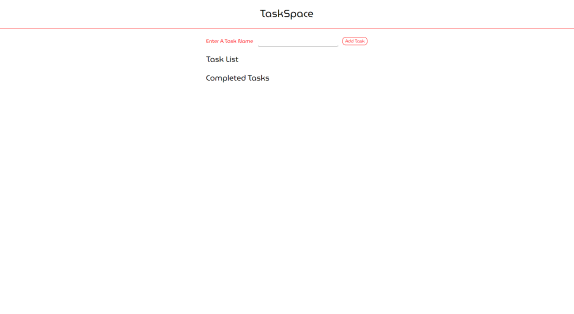
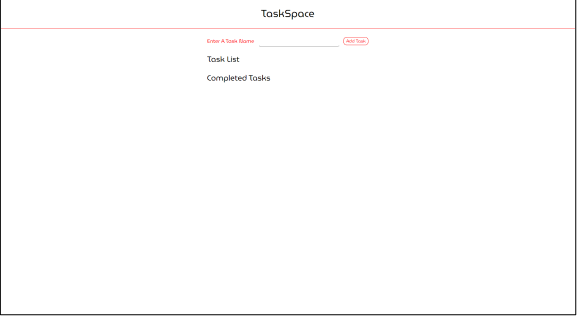
adds borders to images

diff --git a/README.md b/README.md
@@ -7,11 +7,5 @@ This application allows users to create, view, edit, and delete todo tasks. All 
 
 As seen on the left, the design is visually appealing and accessible on a larger screen. The image on the right shows the design on a Pixel 2 device.
 
-
-<table><tr><td>
-<img src="https://i.ibb.co/2dmLbqX/taskspacereact.png" style=/>
-</td></tr></table>
-
-<table><tr><td>
-<img src="https://i.ibb.co/RPFMmWZ/taskspacereactmobile.png" />
-</td></tr></table>
+![Page Screenshot](https://i.ibb.co/LJjQMTP/taskspacereact.png)                              
+![Page Screenshot](https://i.ibb.co/xhb6trs/taskspacereactmobile.png)
